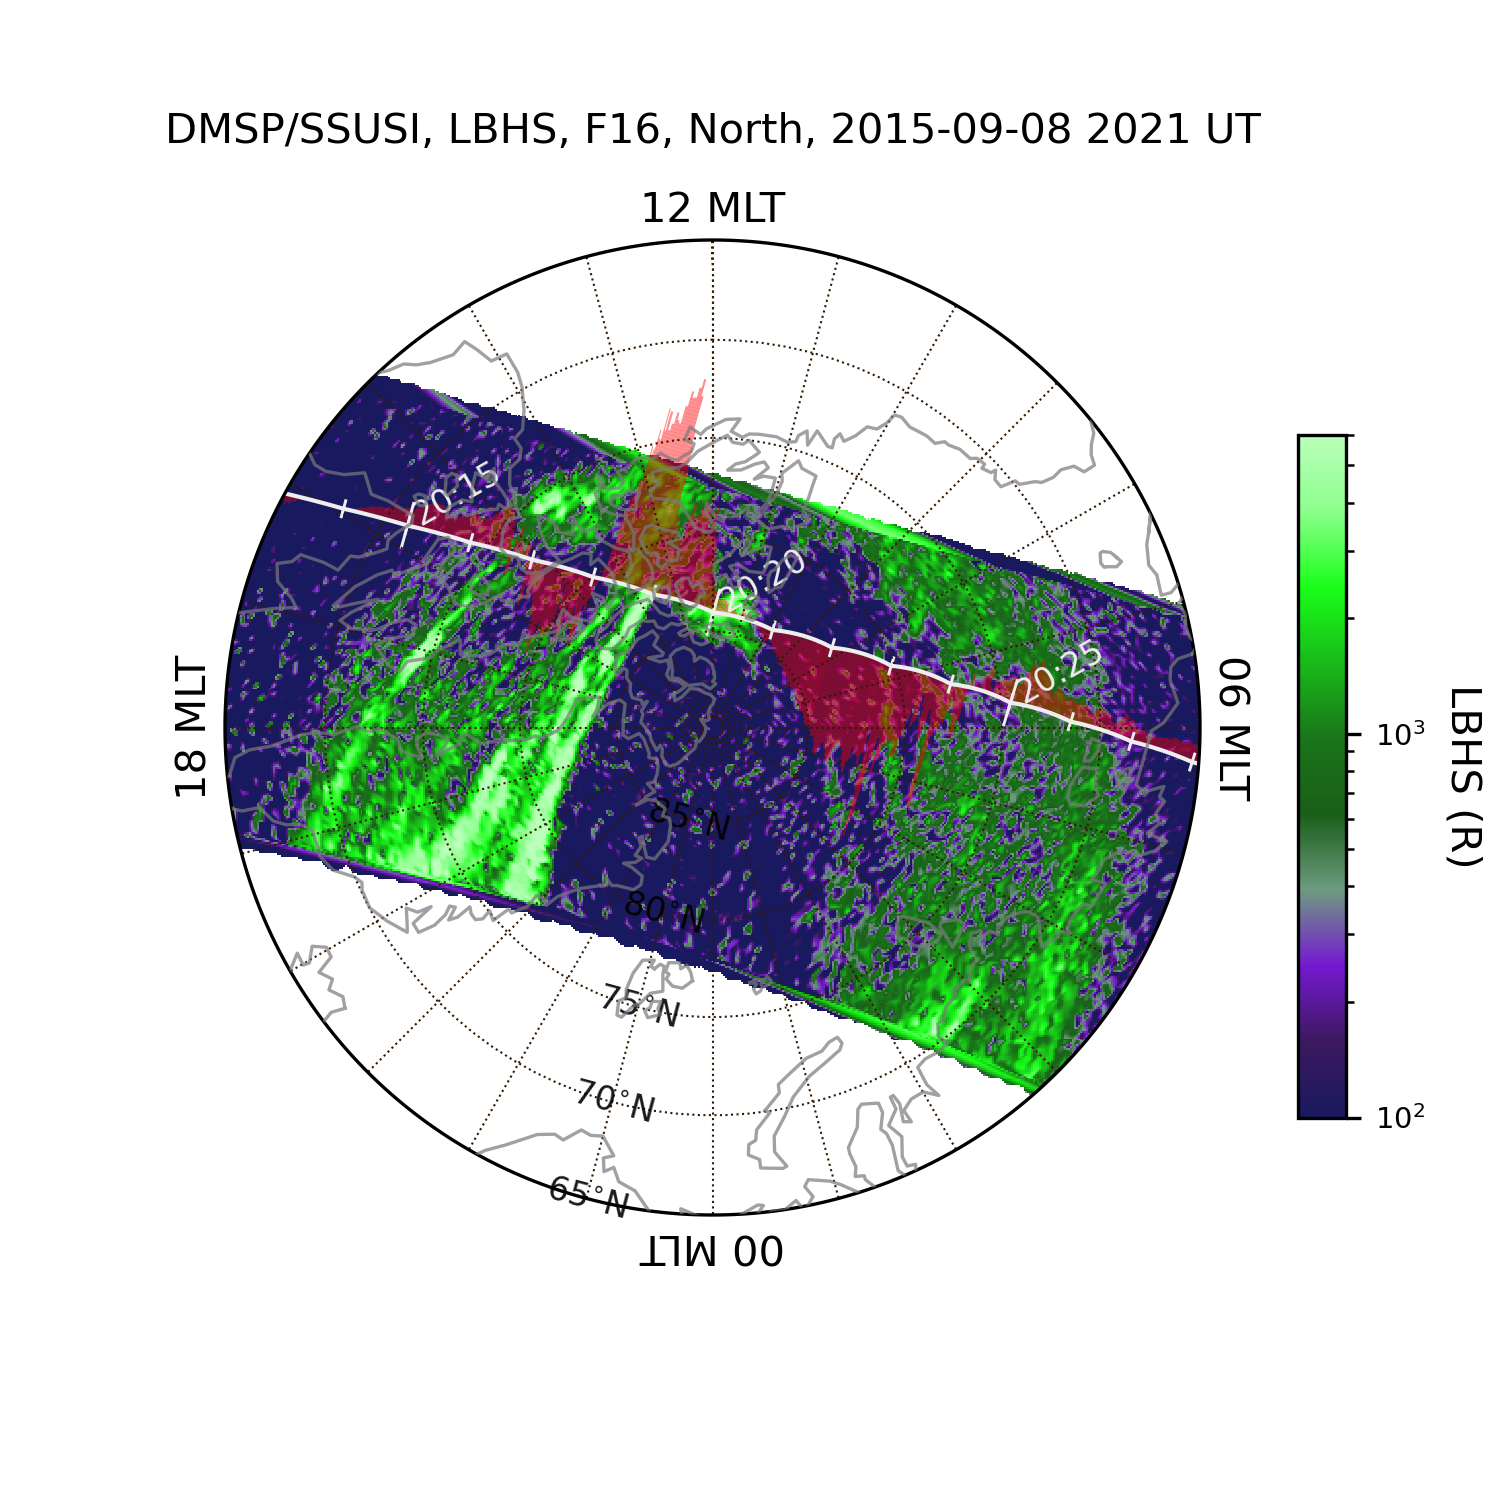
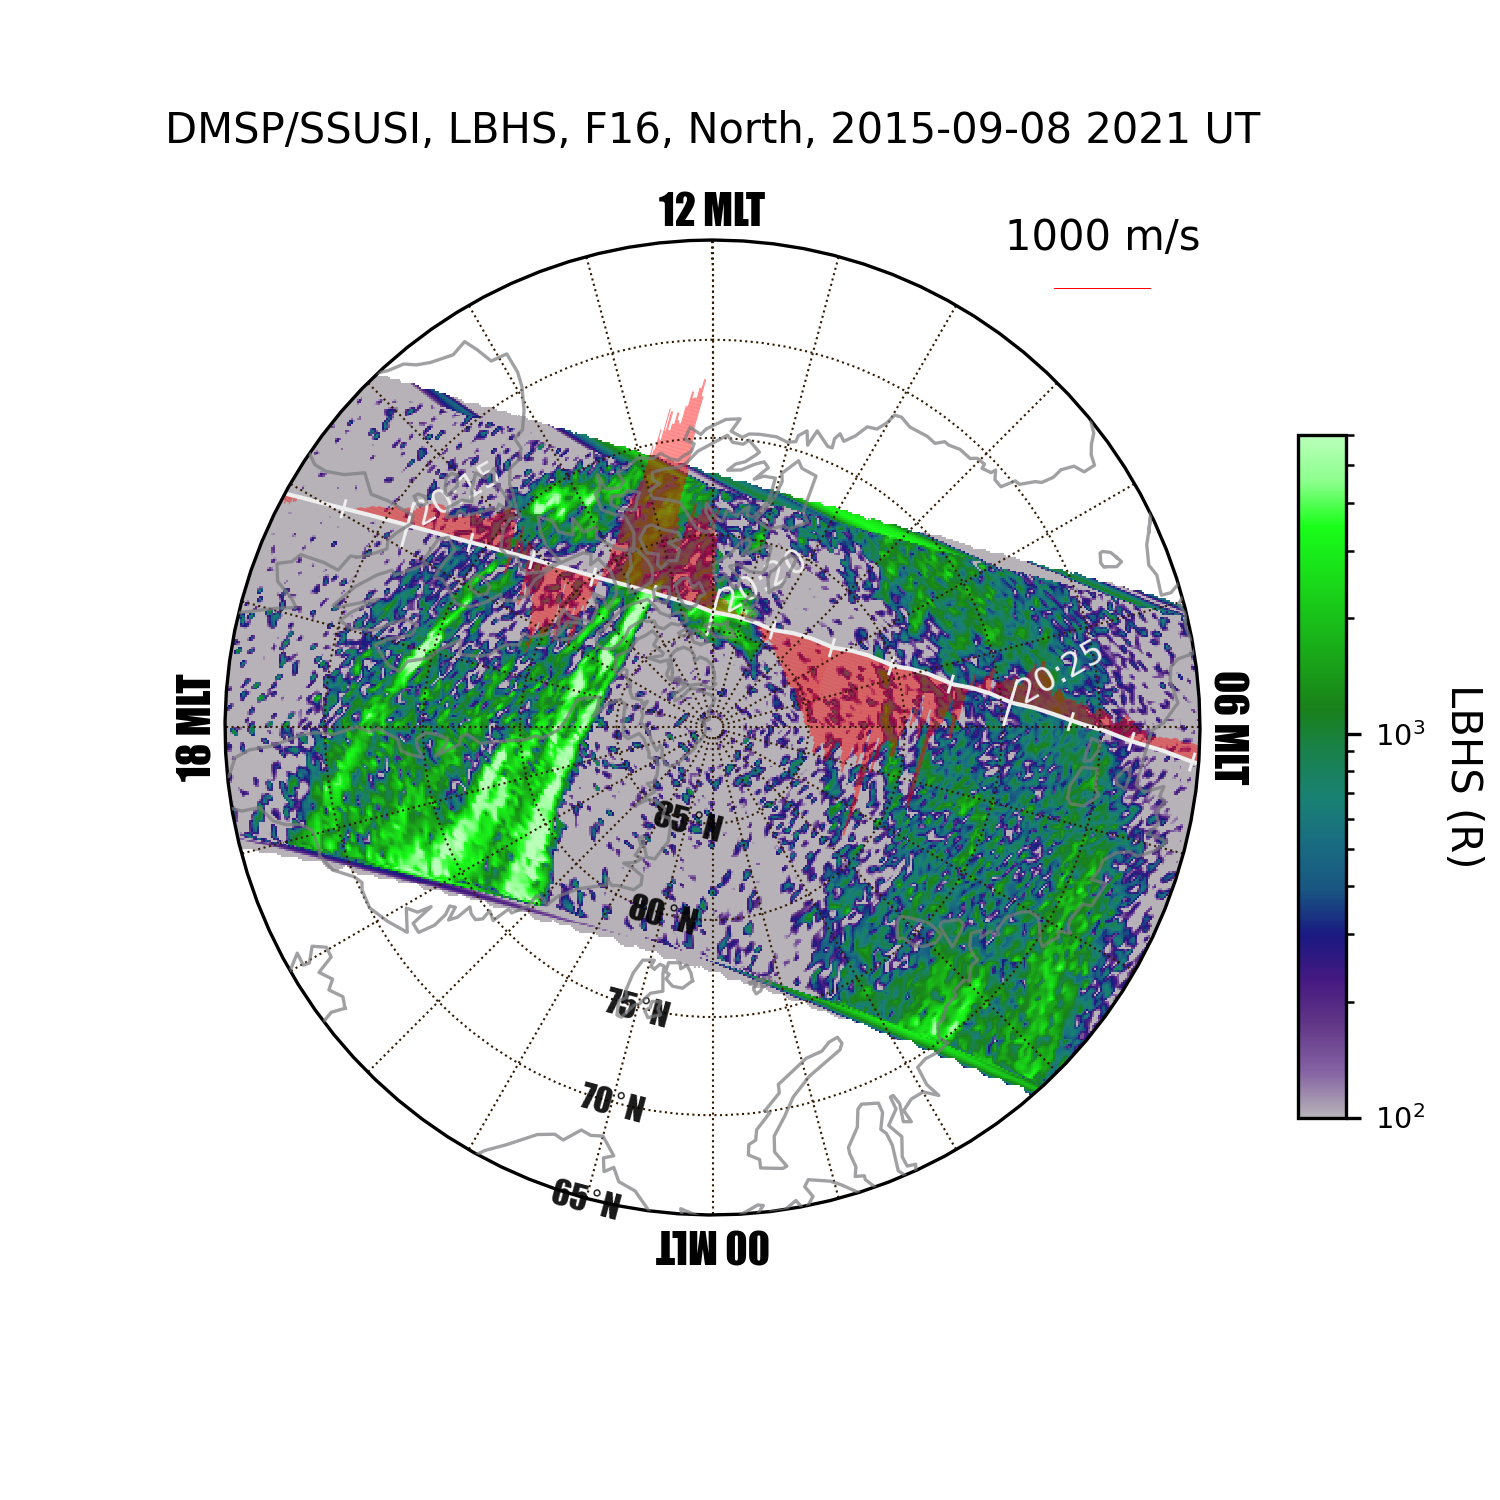
update

diff --git a/examples/demo_dmsp_ssusi_single_panel.py b/examples/demo_dmsp_ssusi_single_panel.py
@@ -5,11 +5,11 @@ import geospacelab.visualization.mpl.geomap.geodashboards as geomap
 
 
 def test_ssusi():
-    dt_fr = datetime.datetime(2015, 9, 8, 8)
-    dt_to = datetime.datetime(2015, 9, 8, 23, 59)
-    time1 = datetime.datetime(2015, 9, 8, 20, 21)
+    dt_fr = datetime.datetime(2011, 11, 1, 8)
+    dt_to = datetime.datetime(2011, 11, 1, 23, 59)
+    time1 = datetime.datetime(2011, 11, 1, 14, 40)
     pole = 'N'
-    sat_id = 'f16'
+    sat_id = 'f17'
     band = 'LBHS'
 
     # Create a geodashboard object
@@ -23,10 +23,9 @@ def test_ssusi():
         datasource_contents=['madrigal', 'dmsp', 's1'],
         dt_fr=time1 - datetime.timedelta(minutes=45),
         dt_to=time1 + datetime.timedelta(minutes=45),
-        sat_id=sat_id)
+        sat_id=sat_id, replace_orbit=True)
 
     dashboard.set_layout(1, 1)
-    repr(dashboard)
 
     # Get the variables: LBHS emission intensiy, corresponding times and locations
     lbhs = dashboard.assign_variable('GRID_AUR_' + band, dataset_index=1)
@@ -37,18 +36,23 @@ def test_ssusi():
 
     # Search the index for the time to plot, used as an input to the following polar map
     ind_t = dashboard.datasets[1].get_time_ind(ut=time1)
+    if (dts[ind_t] - time1).total_seconds()/60 > 60:     # in minutes
+        raise ValueError("The time does not match any SSUSI data!")
     lbhs_ = lbhs.value[ind_t, :, :]
     mlat_ = mlat[ind_t, ::]
     mlon_ = mlon[ind_t, ::]
     mlt_ = mlt[ind_t, ::]
     # Add a polar map panel to the dashboard. Currently the style is the fixed MLT at mlt_c=0. See the keywords below:
-    panel1 = dashboard.add_polar_map(row_ind=0, col_ind=0, style='mlt-fixed', cs='AACGM', mlt_c=0., pole=pole, ut=time1, boundary_lat=65., mirror_south=True)
-
+    panel1 = dashboard.add_polar_map(
+        row_ind=0, col_ind=0, style='mlt-fixed', cs='AACGM',
+        mlt_c=0., pole=pole, ut=time1, boundary_lat=55., mirror_south=True
+    )
 
     # Some settings for plotting.
     pcolormesh_config = lbhs.visual.plot_config.pcolormesh
     # Overlay the SSUSI image in the map.
-    ipc = panel1.overlay_pcolormesh(data=lbhs_, coords={'lat': mlat_, 'lon': mlon_, 'mlt': mlt_}, cs='AACGM', **pcolormesh_config)
+    ipc = panel1.overlay_pcolormesh(
+        data=lbhs_, coords={'lat': mlat_, 'lon': mlon_, 'mlt': mlt_}, cs='AACGM', **pcolormesh_config)
     # Add a color bar
     panel1.add_colorbar(ipc, c_label=band + " (R)", c_scale=pcolormesh_config['c_scale'], left=1.1, bottom=0.1,
                         width=0.05, height=0.7)
@@ -67,9 +71,15 @@ def test_ssusi():
     sc_coords = {'lat': sc_lat, 'lon': sc_lon, 'height': sc_alt}
 
     v_H = ds_s1['v_i_H'].value.flatten()
-    panel1.overlay_cross_track_vector(vector=v_H, unit_vector=1000, alpha=0.5, color='r', sc_coords=sc_coords, sc_ut=sc_dt)
+    panel1.overlay_cross_track_vector(
+        vector=v_H, unit_vector=1000, vector_unit='m/s', alpha=0.5, color='r',
+        sc_coords=sc_coords, sc_ut=sc_dt, cs='GEO',
+    )
     # Overlay the satellite trajectory with ticks
     panel1.overlay_sc_trajectory(sc_ut=sc_dt, sc_coords=sc_coords, cs='GEO')
+
+    # Overlay sites
+    panel1.overlay_sites(site_ids=['TRO', 'ESR'], coords={'lat': [69.58, 78.15], 'lon': [19.23, 16.02], 'height': 0.}, cs='GEO', marker='^')
 
     # Add the title and save the figure
     polestr = 'North' if pole == 'N' else 'South'

diff --git a/geospacelab/visualization/mpl/geomap/geopanels.py b/geospacelab/visualization/mpl/geomap/geopanels.py
@@ -682,9 +682,9 @@ class PolarMapPanel(GeoPanel):
                 )
 
     def overlay_cross_track_vector(
-            self, vector, unit_vector, sc_ut=None, sc_coords=None, cs='GEO', *,
+            self, vector, unit_vector, sc_ut=None, sc_coords=None, cs=None, *,
             unit_vector_scale=0.1, vector_unit='',
-            color='r', alpha=0.5,
+            color='r', alpha=0.5, quiverkey_config={},
             **kwargs):
 
         cs_new = self.cs_transform(cs_fr=cs, coords=sc_coords, ut=sc_ut)
@@ -712,13 +712,27 @@ class PolarMapPanel(GeoPanel):
         uq1 = - sign * vector * np.sin(slope)
         vq1 = sign * vector * np.cos(slope)
 
-        self.major_ax.quiver(
+        iq = self.major_ax.quiver(
             xq, yq, uq1, vq1,
             units='xy', angles='xy', scale=1., scale_units='xy',
             width=0.001 * (self._extent[1] - self._extent[0]),
             headlength=0, headaxislength=0, pivot='tail', color=color, alpha=alpha, **kwargs
         )
-        pass
+
+        # Add quiverkey
+        quiverkey_config = pybasic.dict_set_default(
+            quiverkey_config, X=0.9, Y=0.95, U=width*unit_vector_scale,
+            linewidth=1, label=str(unit_vector) + ' ' + vector_unit, color=color,
+        )
+        X = quiverkey_config.pop('X')
+        Y = quiverkey_config.pop('Y')
+        U = quiverkey_config.pop('U')
+        label = quiverkey_config.pop('label')
+        iqk = self.major_ax.quiverkey(
+            iq, X, Y, U, label, **kwargs
+        )
+
+        return iq
 
     def overlay_sc_coloured_line(
             self, data, sc_coords=None, sc_ut=None, cs=None, *,
@@ -766,13 +780,9 @@ class PolarMapPanel(GeoPanel):
         # cbar.set_label(r'$n_e$' + '\n' + r'(cm$^{-3}$)', rotation=270, labelpad=25)
 
     def overlay_sites(self, site_ids=None, coords=None, cs=None, **kwargs):
-        pybasic.dict_set_default(kwargs, s=10, c='k')
-        if cs is None:
-            cs = self.cs
-        if cs != self.cs:
-            cs_new = self.cs_transform(cs_fr=cs,coords=coords)
-        else:
-            cs_new = self.cs_transform(cs_fr=cs, coords=coords)
+        kwargs = pybasic.dict_set_default(kwargs, s=10, c='k')
+
+        cs_new = self.cs_transform(cs_fr=cs, coords=coords)
         
         isc = self().scatter(cs_new['lon'], cs_new['lat'], transform=ccrs.PlateCarree(), **kwargs)
         return isc

diff --git a/geospacelab/cs/_cs_base.py b/geospacelab/cs/_cs_base.py
@@ -87,6 +87,8 @@ class SpaceCSBase(object):
             self.coords = coords
         for key, value in attrs.items():
             if hasattr(self.coords, key):
+                if 'unit' not in key:
+                    value = validate_coord_value(value)
                 setattr(self.coords, key, value)
             else:
                 mylog.StreamLogger.warning(
@@ -241,6 +243,7 @@ class CoordinatesBase(object):
 
     def add_coord(self, name, value=None, unit=None):
         if not hasattr(self, name):
+            value = validate_coord_value(value)
             setattr(self, name, value)
             if unit is None:
                 unit = default_coord_attrs[self.kind][name]['unit']
@@ -261,6 +264,19 @@ class CartesianCoordinates(CoordinatesBase):
         self.Re = np.double(6371.2)     # Earth rad in km
         kwargs.setdefault('new_coords', ['x', 'y', 'z'])
         super().__init__(cs=cs, kind='car', **kwargs)
+
+
+def validate_coord_value(value):
+
+    if type(value) in (int, float):
+        value = value
+    elif type(value) in (list, tuple):
+        value = np.array(value)
+    elif isinstance(value, np.ndarray):
+        value = value
+    elif value is not None:
+        raise TypeError
+    return value
 
 # def check_cs_method(cls):
 #     sph_methods = ["convert_latlon_to_thetaphi", "convert_thetaphi_to_latlon",

diff --git a/geospacelab/datahub/sources/madrigal/dmsp/s1/__init__.py b/geospacelab/datahub/sources/madrigal/dmsp/s1/__init__.py
@@ -40,6 +40,7 @@ default_dataset_attrs = {
     'time_clip': True,
     'add_AACGM': True,
     'calib_orbit': True,
+    'replace_orbit': True,
 }
 
 default_variable_names = [
@@ -80,6 +81,7 @@ class Dataset(datahub.DatasetSourced):
         self.force_download = kwargs.pop('force_download', False)
         self.add_AACGM = kwargs.pop('add_AACGM', False)
         self.calib_orbit = kwargs.pop('calib_orbit', False)
+        self.replace_orbit = kwargs.pop('replace_orbit', False)
 
         self.sat_id = kwargs.pop('sat_id', None)
 
@@ -164,6 +166,8 @@ class Dataset(datahub.DatasetSourced):
 
         glat_1 = self['SC_GEO_LAT'].value.flatten()
         glon_1 = self['SC_GEO_LON'].value.flatten()
+        if glat_1.size<2:
+            return
 
         dts_1 = self['SC_DATETIME'].value.flatten()
         dt0 = dttool.get_start_of_the_day(self.dt_fr)
@@ -188,7 +192,10 @@ class Dataset(datahub.DatasetSourced):
 
         ind_outliers = np.where(np.abs(sin_glon_1 - sin_glon_2_i) > 0.03)[0]
 
-        glon_1[ind_outliers] = glon_new[ind_outliers]
+        if self.replace_orbit:
+            glon_1 = glon_new
+        else:
+            glon_1[ind_outliers] = glon_new[ind_outliers]
         self['SC_GEO_LON'].value = glon_1.reshape((glon_1.size, 1))
 
     def search_data_files(self, **kwargs):

diff --git a/geospacelab/visualization/mpl/colormaps.py b/geospacelab/visualization/mpl/colormaps.py
@@ -55,13 +55,16 @@ def cmap_jhuapl_ssj_like():
 
 
 def cmap_aurora():
-    c1 = ['#1D1145', '#1F0F88',
-          '#430AA3', '#6B16AA',
-          '#6E5C97', '#5D9071',
-          '#104103',
-          '#10B403', '#3FEA39',
-          '#B1E5BC', '#DBEAD9']
-    c1 = ['#00004D', '#26004D', '#6600CC', '#5D9071', '#004D00', '#006600', '#00B300', '#00FF00', '#80FF80', '#B3FFB3']
+    c1 = ['#848F9E', '#6A4CA1', '#4035A3', '#395EA6', '#003300', '#006600', '#009900', '#00BB00', '#00DD00', '#00FF00', '#80FF80', '#B3FFB3']
+    c1 = ['#AEAAB0', '#78519A', '#51227B', '#310073',
+          '#000073', '#004373', '#005B73', '#007365',
+          '#00733A', '#007300', '#009900', '#00BB00',
+          '#00DD00', '#00FF00', '#80FF80', '#B3FFB3']
+    # c1 = ['#7D8094', '#6F5496', '#591D99',
+    #       '#33189C', '#192B9E', '#2196A1',
+    #       '#1FA380', '#1DA65B', '#1EA81E',
+    #       '#15BD1D', '#16C91F', '#18D921',
+    #       '#1AEB24', '#1BF726', '#B3FFB3']
     mycmap = colors.LinearSegmentedColormap.from_list("jhuapl_ssj_like", c1, N=500)
     return mycmap
 

diff --git a/geospacelab/datahub/sources/jhuapl/dmsp/ssusi/edraur/loader.py b/geospacelab/datahub/sources/jhuapl/dmsp/ssusi/edraur/loader.py
@@ -23,6 +23,7 @@ class Loader(object):
     def load_data(self):
         dataset = netCDF4.Dataset(self.file_path)
         variables = {}
+        metadata = {}
 
         if self.pole == 'N':
             pole = self.pole
@@ -104,6 +105,8 @@ class Loader(object):
         variables['MAOB_PL_MLON'] = np.array(dataset.variables['MODEL_' + pole_str + '_POLAR_GEOMAGNETIC_LONGITUDE'])
         variables['MAOB_PL_MLT'] = np.array(dataset.variables['MODEL_' + pole_str + '_POLAR_MAGNETIC_LOCAL_TIME'])
 
+        metadata.setdefault('ORBIT_ID', dataset.STARTING_ORBIT_NUMBER)
         dataset.close()
 
         self.variables = variables
+        self.metadata = metadata

diff --git a/geospacelab/datahub/__dataset_base__.py b/geospacelab/datahub/__dataset_base__.py
@@ -380,8 +380,11 @@ class DatasetSourced(DatasetBase):
             var_datetime = self[var_datetime_name]
         if var_datetime.value is None:
             return
+        dts = var_datetime.value.flatten()
+        if ut > dts[-1] or ut < dts[0]:
+            raise ValueError("The input time is out of the range!")
+        delta_sectime = [delta_t.total_seconds() for delta_t in (dts - ut)]
 
-        delta_sectime = [delta_t.total_seconds() for delta_t in (self['DATETIME'].value.flatten() - ut)]
         ind = np.where(np.abs(delta_sectime) == np.min(np.abs(delta_sectime)))[0][0]
         return ind
 

diff --git a/geospacelab/datahub/sources/jhuapl/dmsp/ssusi/edraur/__init__.py b/geospacelab/datahub/sources/jhuapl/dmsp/ssusi/edraur/__init__.py
@@ -106,6 +106,7 @@ class Dataset(datahub.DatasetSourced):
                     value = load_obj.variables[var_name][np.newaxis, ::]
                 self._variables[var_name].join(value)
 
+            self.orbit_id = load_obj.metadata['ORBIT_ID']
             # self.select_beams(field_aligned=True)
         if self.time_clip:
             self.time_filter_by_range()
